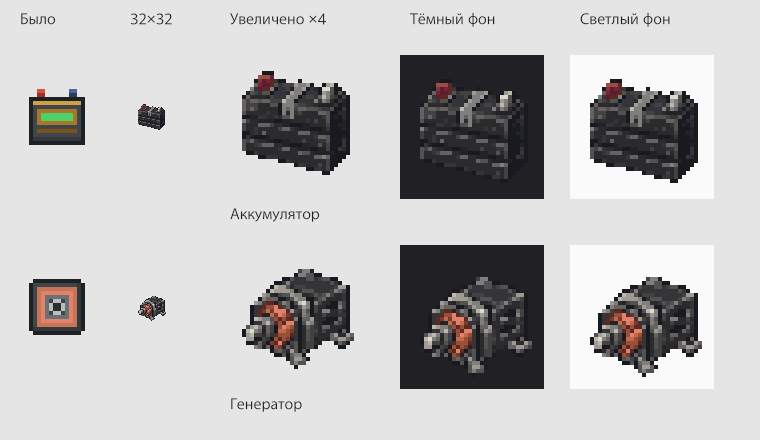
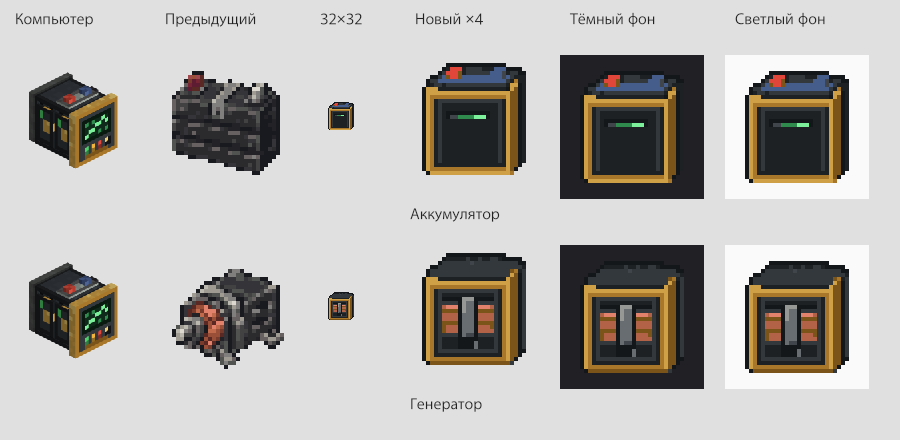
Аддоны: простые кассеты в стиле бортового компьютера

diff --git a/tools/create-aeronautics-extra-mod/art/modules.md b/tools/create-aeronautics-extra-mod/art/modules.md
@@ -1,34 +1,40 @@
-# Пиксельные модули — этап задачи №135
+# Прямоугольные кассеты — этап задачи №135
 
 Дата: 2026-10-29. Встроенный Codex ImageGen, без CLI/API.
 
-Исходники: `sources/battery_module.png`, `sources/generator_module.png` (1254×1254 RGBA).
-Игровые текстуры: `../src/main/resources/assets/create_aeronautics_extra/textures/item/`, 32×32.
-Подготовка: Sharp, nearest-neighbor; затем ближайший цвет палитры EE без дизеринга,
-альфа 0/255 с порогом 128. Аккумулятор — 18 цветов с прозрачностью, генератор — 17.
-Палитра: #191920 #222227 #2b2b2e #353438 #434243 #50534f #676161 #817e7e #9f9b93
-#bbb8af #ddd9d0 #5e1c33 #772434 #a04a50 #5b2924 #793b2b #9a5038 #c26b4c #e3826c.
-Готовые PNG хранятся в ресурсах; `gen_assets.py` сохраняет их при пересборке моделей.
+Ориентир — сам `create_aeronautics_extra:onboard_computer`, его изображение
+`../icons/onboard_computer.png` просмотрено и передано генератору. Для генераторной кассеты
+дополнительно передан новый рисунок аккумулятора, чтобы сохранить общий корпус.
 
-Ориентиры из Electro Energetics 1.1.2 через MCP `texture_get`:
-`item/commutator`, `item/miniature_circuit_breaker`, `item/miniature_voltmeter` (16×16, 12–16 цветов),
-`block/accumulator` (атлас 32×32). Все изображения просмотрены и переданы генератору;
-для генератора дополнительно передан новый аккумулятор.
+Уточнение пользователя: простые формы в стиле основного блока. Плоские прямоугольные панели,
+графитовый корпус и тонкая латунная рамка. Без округлых машин, сложной передачи изгибов,
+декоративных бликов, мелкого шума и лишней детализации. Аккумулятор узнаётся по квадратным
+клеммам и индикатору, генератор — по двум прямоугольным медным обмоткам и сердечнику.
 
-По замечанию пользователя исключены детальные рисованные варианты и золотые рамки.
-Цель: простые пиксельные предметы в стилистике EE, обводка, теневая грань,
-сдержанные блики и фактура вместо одноцветного пятна.
+## Исходники и подготовка
+
+Исходники ImageGen: `sources/battery_module.png`, `sources/generator_module.png`, 1199×1312 RGBA.
+Готовые игровые PNG: `../src/main/resources/assets/create_aeronautics_extra/textures/item/`, 32×32.
+У каждого — 12 цветов с прозрачностью. Готовые PNG сохраняются при запуске `gen_assets.py`.
+
+Механическая подготовка: по альфе ≥128 определены границы объекта, удалены пустые поля.
+Sharp: вписать в 28×28 без изменения пропорций (`nearest`, `contain`), добавить по 2 прозрачных
+пикселя со всех сторон. Альфа 0/255, порог 128. Ближайший цвет палитры, без дизеринга.
+Общая палитра: #141719 #1e2124 #33383d #3f454b #7a5418 #a8772a #d0a046.
+Аккумулятор дополнительно: #e0473a #445d8b #2f8a4e #7cf09a.
+Генератор дополнительно: #b26247 #e3826c #676d70 #969895.
 
 ## Запрос: аккумулятор
 
-Create ONE actual Minecraft pixel-art inventory sprite for a removable BATTERY MODULE for Create Electro Energetics. Reference images supplied are actual Electro Energetics textures enlarged: commutator (copper and steel palette), miniature circuit breaker (industrial sprite shading), miniature voltmeter (dark case), accumulator UV sheet (battery material). Match their restrained vanilla Minecraft pixel art, NOT the ornate illustrated battery/generator previously generated. Sprite must be drawn on a strict 32 BY 32 PIXEL GRID, enlarged exactly nearest-neighbor so each logical pixel is a hard square. All edges must fall on that grid. No subpixel detail, no antialiasing, no smooth shading, no painted brushwork, no bevel-render illustration. Limit about 16-20 flat colors total. One simple dark graphite rectangular battery cartridge, slight 3/4 perspective so narrow right side and top are visible, red and dull gray terminal posts, a small steel retaining strap, two broad rib grooves and 2 or 3 restrained surface texture pixels to break flat fields. Dark clean one-pixel contour; upper left highlights and darker right face to give volume. Mostly graphite #222227 #2b2b2e #353438, steel #757171 #9f9b93, muted terminal red #772434. NO gold frame, NO brass jewelry, no handle, no screen, no modern glossy look. Recognizable industrial component, not a chest. Fill a 26x27 logical-pixel area centered in the 32x32 canvas with transparent margin. Transparent background, no text, no cast shadow. Output should look like a native modest Minecraft mod sprite viewed at 32px, only enlarged for delivery.
+Create ONE small Minecraft inventory PIXEL SPRITE: a BATTERY CASSETTE that plugs into the onboard computer in the reference image. Reference is the EXACT host block: copy its simple BOX GEOMETRY, dark graphite flat panels, thin brass trim and two square red/blue terminals. The module should look like a spare removable rectangular cassette from the side bays of that block. Design: a single rectangular graphite case, flat dark front panel, narrow brass perimeter rail, two SQUARE red/blue contacts on its top edge, a tiny horizontal green rectangular charge slit. Nearly frontal orthographic view with only a 2-pixel-wide right side and top visible. Absolutely straight edges and right angle corners, no rounded shoulders, curves, cylindrical cells, bulging ribs or angled bevels. Few large simple flat color regions, about 10-12 colors: black outline, 3 dark graphite shades, 2 subdued brass shades, red, blue and muted green. No metal sparkle, specular highlights, gradient shading, worn speckles, noise, small rivets or ornamental details. Volume ONLY from single flat darker right plane, not light effects. Looks like a modest native Create Electro Energetics component, NOT a detailed pixel illustration. STRICT 32x32 logical pixel canvas, enlarged nearest-neighbor, each logical pixel uniform color. Centered complete sprite with rectangular silhouette, object 22 pixels wide and 24 pixels tall, transparent margin. True transparent background, no text, labels, logos, floor or cast shadow. One item only.
 
 ## Запрос: генератор
 
-Create ONE actual Minecraft pixel-art inventory sprite for a GENERATOR MODULE insert for Create Electro Energetics. References 1 and 2 are actual Electro Energetics 16x16 sprites enlarged (commutator and miniature circuit breaker); reference 3 is the new battery module: match its modest chunky pixels and graphite/steel shading, but make a distinct generator. A compact squat dark steel electrical generator cartridge with a visible COPPER COIL around the steel shaft end at the front, a small gray shaft protruding diagonally toward lower left, dark rear casing with two cooling slits and simple flat steel mounting feet. Slight 3/4 perspective, NOT dramatic cylindrical illustration. Native Minecraft item pixel art on a STRICT 32x32 logical pixel grid, delivered enlarged nearest-neighbor. Every logical pixel a flat square, only 16-20 colors total, dark one-pixel outline, shadowed right face, restrained upper left highlight. No antialiasing, brush texture, smooth gradients, photorealism or tiny details. Copper from EE commutator #5b2924 #793b2b #9a5038 #c26b4c #e3826c; steel #3e3e3e #50534f #72716b #9f9b93. Large clear copper winding segments with a few stepped highlights, no gold/brass frame or decorative rivets. No terminals or screen. Object occupies roughly 26x26 of 32x32 grid, fully visible, centered with transparent margin. True transparent background. No text, numbers, logo, floor or cast shadow. Should look like a simple native Create Electro Energetics component at inventory size, not a rendered product illustration.
+Create ONE Minecraft inventory pixel sprite of a GENERATOR CASSETTE insert for the onboard computer. Reference 1 is the exact host block; reference 2 is its new BATTERY CASSETTE. Create the matching GENERATOR in the SAME SIMPLE rectangular case, near-frontal orthographic view with narrow right face and top. Match reference 2's straight-edged silhouette and slim brass rail, but replace battery terminals and charge slit with a visible rectangular electrical assembly: TWO broad rectangular copper winding packs left and right of ONE vertical flat gray steel core bar, a small square dark socket in the lower middle. The copper packs consist of only 3 broad horizontal flat bands each, all right angles. Top of the cassette is plain dark graphite, NO red/blue terminals. Dark graphite case, thin muted brass perimeter frame as in host computer, restrained copper #b26247 #d67b5b, gray steel. The object must look like a removable functional cartridge, not a machine statue. No cylinder, no rotor wheel, no circular hole, no round shaft, no curved corner, no bulging winding, no bolts, no bevels, no ornate gold border. All major geometry is rectangular, simple planes and right angles. STRICT 32x32 logical pixel canvas enlarged nearest-neighbor, hard clean grid edges, 12-14 flat colors total. Minimal flat shading: one darker side, no gradient, glints, specular highlights, worn texture, noise, tiny decorative pixels or highly detailed illustration. Keep big clear functional shapes. Center complete object 22 pixels wide and 24 pixels tall with transparent margin, same proportions as battery. True transparent background, one item, no text, numbers, logos, scene or cast shadow.
 
 ## Просмотр
 
-`preview-modules.png`: прежний значок, новый PNG 32×32, увеличение ×4,
-тёмный и светлый фон. Всё увеличение без сглаживания. Это проверка рисунка, не снимок клиента Minecraft.
-В игре не проверялось. Подготовлено к следующему выпуску; версия 1.0.0 не переиздавалась.
+`preview-modules.png`: бортовой компьютер, предыдущий вариант, новый PNG 32×32,
+увеличение ×4, тёмный и светлый фон. Увеличение без сглаживания.
+Это проверка рисунка, не снимок клиента Minecraft. В игре не проверялось.
+Подготовлено к следующему выпуску; опубликованная версия 1.0.0 не переиздавалась.

diff --git a/docs/state/addons.md b/docs/state/addons.md
@@ -123,8 +123,10 @@ BE, on the item as data component `charge`. Device `OnboardDevice` is stateless 
   battery-to-battery over wires, restart, drops. `SABLE=1` (server on NeoForge 21.1.251 + sable jar): `/sable assemble
 area` of the stand — keeps working on the plot. Terminals 24/24. Not checked in game.
 
-- **Texture sources (dev #135, 2026-10-29):** battery and generator modules replaced with 32×32 pixel sprites,
-  matching the dark steel/copper palette of Electro Energetics 1.1.2. ImageGen originals and prompts in
+- **Texture sources (dev #135, 2026-10-29):** battery and generator modules are simple rectangular 32×32
+  cassettes matching the onboard computer: flat graphite panels, thin brass trim, square contacts or copper windings.
+  User direction: simple straight geometry, minimal shading, no rounded machines or decorative highlights.
+  Each sprite uses 12 colours including transparency. ImageGen originals and prompts in
   `art/sources/` and `art/modules.md`; generator preserves finished item PNGs. Prepared for the next release;
   published 1.0.0 unchanged. Client appearance not checked in game. Pyrofuel remains for the next stage.
 
